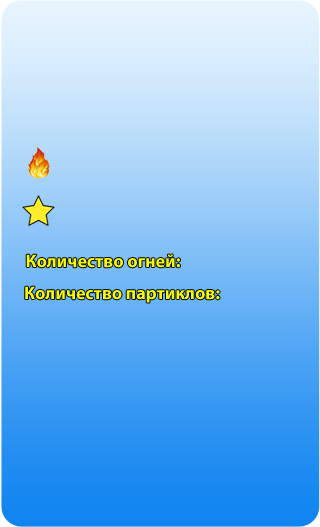
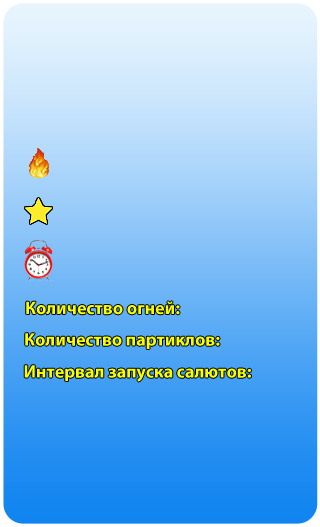
реализованы кнопки сокрытия информации и очистки сцены

diff --git a/fire_works/gui.h b/fire_works/gui.h
@@ -15,10 +15,13 @@ class Display_text: public sf::Drawable {
 	sf::Text fps_text;
 	sf::Text fractions_text;
 	sf::Text fireworks_text;
+	bool change_state = true;	
 public:
+	bool current_state = true;
     Display_text();
 	virtual void draw(sf::RenderTarget& target, sf::RenderStates states) const;
 	void set_fps_text(std::string str_fps) { fps_text.setString("FPS = "+str_fps); }
+	void show_text(bool state) { change_state = state; }
 	void set_fractions_text(std::string str_fractions) { fractions_text.setString("Parcticle = "+str_fractions); }
 	void set_fireworks_text(std::string str_fireworks) { fireworks_text.setString("Fireworks = "+str_fireworks); }
 };
@@ -103,12 +106,24 @@ struct Slider_number_of_particles {
 	Slider_number_of_particles(tgui::GuiSFML&);
 };
 
+struct Slider_start_of_fireworks {
+	tgui::Slider::Ptr slider_start_of_fireworks;
+	tgui::Layout width_start_of_fireworks = 230;
+	tgui::Layout height_start_of_fireworks = 15;
+	tgui::Layout pos_x_start_of_fireworks = 105;
+	tgui::Layout pos_y_start_of_fireworks = 475;
+	tgui::Theme theme{ "themes/Black.txt" };
+	Slider_start_of_fireworks(tgui::GuiSFML&);
+};
+
+
+
 struct Label_number_of_lights {
 	tgui::Label::Ptr label_number_of_lights;
 	tgui::Layout width_label_number_of_lights = 310;
 	tgui::Layout height_label_number_of_lights = 150;
-	tgui::Layout pos_x_label_number_of_lights = 280;
-	tgui::Layout pos_y_label_number_of_lights = 465;
+	tgui::Layout pos_x_label_number_of_lights = 290;
+	tgui::Layout pos_y_label_number_of_lights = 512;
 	tgui::Theme theme{ "themes/Black.txt" };
 	Label_number_of_lights(tgui::GuiSFML&);
 };
@@ -117,26 +132,38 @@ struct Label_number_of_particles {
 	tgui::Label::Ptr label_number_of_particles;
 	tgui::Layout width_label_number_of_particles = 310;
 	tgui::Layout height_label_number_of_particles = 150;
-	tgui::Layout pos_x_label_number_of_particles = 280;
-	tgui::Layout pos_y_label_number_of_particles = 495;
+	tgui::Layout pos_x_label_number_of_particles = 290;
+	tgui::Layout pos_y_label_number_of_particles = 542;
 	tgui::Theme theme{ "themes/Black.txt" };
 	Label_number_of_particles(tgui::GuiSFML&);
 };
+
+struct Label_number_of_seconds {
+	tgui::Label::Ptr label_number_of_second;
+	tgui::Layout width_label_number_of_second = 310;
+	tgui::Layout height_label_number_of_second = 150;
+	tgui::Layout pos_x_label_number_of_second = 290;
+	tgui::Layout pos_y_label_number_of_second = 573;
+	tgui::Theme theme{ "themes/Black.txt" };
+	Label_number_of_seconds(tgui::GuiSFML&);
+};
+
+
 
 struct Button_reset_scene {
 	tgui::Button::Ptr button_reset_scene;
 	tgui::Layout width_button_reset_scene = 240;
 	tgui::Layout height_button_reset_scene = 31;
 	tgui::Layout pos_x_button_reset_scene = 70;
-	tgui::Layout pos_y_button_reset_scene = 550;
+	tgui::Layout pos_y_button_reset_scene = 620;
 	Button_reset_scene(tgui::GuiSFML&);
 };
 
-struct Button_delete_info {
-	tgui::Button::Ptr button_delete_info;
-	tgui::Layout width_button_delete_info = 240;
-	tgui::Layout height_button_delete_info = 31;
-	tgui::Layout pos_x_button_delete_info = 70;
-	tgui::Layout pos_y_button_delete_info = 600;
-	Button_delete_info(tgui::GuiSFML&);
+struct Button_hide_info {
+	tgui::Button::Ptr button_hide_info;
+	tgui::Layout width_button_hide_info = 240;
+	tgui::Layout height_button_hide_info = 31;
+	tgui::Layout pos_x_button_hide_info = 70;
+	tgui::Layout pos_y_button_hide_info = 670;
+	Button_hide_info(tgui::GuiSFML&);
 };

diff --git a/fire_works/fireworks.cpp b/fire_works/fireworks.cpp
@@ -29,7 +29,8 @@ bool Fractions::generate_fractions() {
 };
 
 
-Flow_fractions::Flow_fractions(std::list<Fractions*>* fractions,sf::RenderWindow& window ,int color_id) {
+Flow_fractions::Flow_fractions(std::list<Fractions*>* fractions,sf::RenderWindow& window ,int color_id, int fract) {
+    number_fractions = fract;
     switch (color_id) {
     case 0: {
         flow_fractions_color = sf::Color(255, 0, 0);
@@ -72,7 +73,8 @@ Flow_fractions::Flow_fractions(std::list<Fractions*>* fractions,sf::RenderWindow
        
 };
 
-Flow_fractions::Flow_fractions(std::list<Fractions*>* fractions,int color_id) {
+Flow_fractions::Flow_fractions(std::list<Fractions*>* fractions,int color_id,int fract) {
+    number_fractions = fract;
     switch (color_id) {
     case 0: {
         flow_fractions_color = sf::Color(255, 0, 0);
@@ -119,7 +121,6 @@ Flow_fractions::Flow_fractions(std::list<Fractions*>* fractions,int color_id) {
 
 bool Flow_fractions::generate_flow() {
     flow_fractions_positions = flow_fractions_positions + flow_fractions_velocity;
-    int number_fractions = 5; // FRACTIONS
     for (int y = 0; y < flow_fractions_velocity.y * (-1); ++y)
         for ( int i = 0; i < number_fractions; ++i)
             list_fractions->push_back(new Fractions(sf::Vector2f(get_position().x, get_position().y + y), get_color()));

diff --git a/fire_works/fireworks.h b/fire_works/fireworks.h
@@ -19,9 +19,10 @@ class Flow_fractions {
     sf::Vector2f flow_fractions_velocity;
     sf::Vector2f flow_fractions_positions;   
     std::list<Fractions*>*list_fractions;
+    int number_fractions = 5;
 public:
-    Flow_fractions(std::list<Fractions*>*,sf::RenderWindow&,int);
-    Flow_fractions(std::list<Fractions*>*,int);
+    Flow_fractions(std::list<Fractions*>*,sf::RenderWindow&,int,int);
+    Flow_fractions(std::list<Fractions*>*,int,int);
     sf::Color get_color()       const { return flow_fractions_color; };
     sf::Vector2f get_position() const { return flow_fractions_positions; };
     bool generate_flow();
